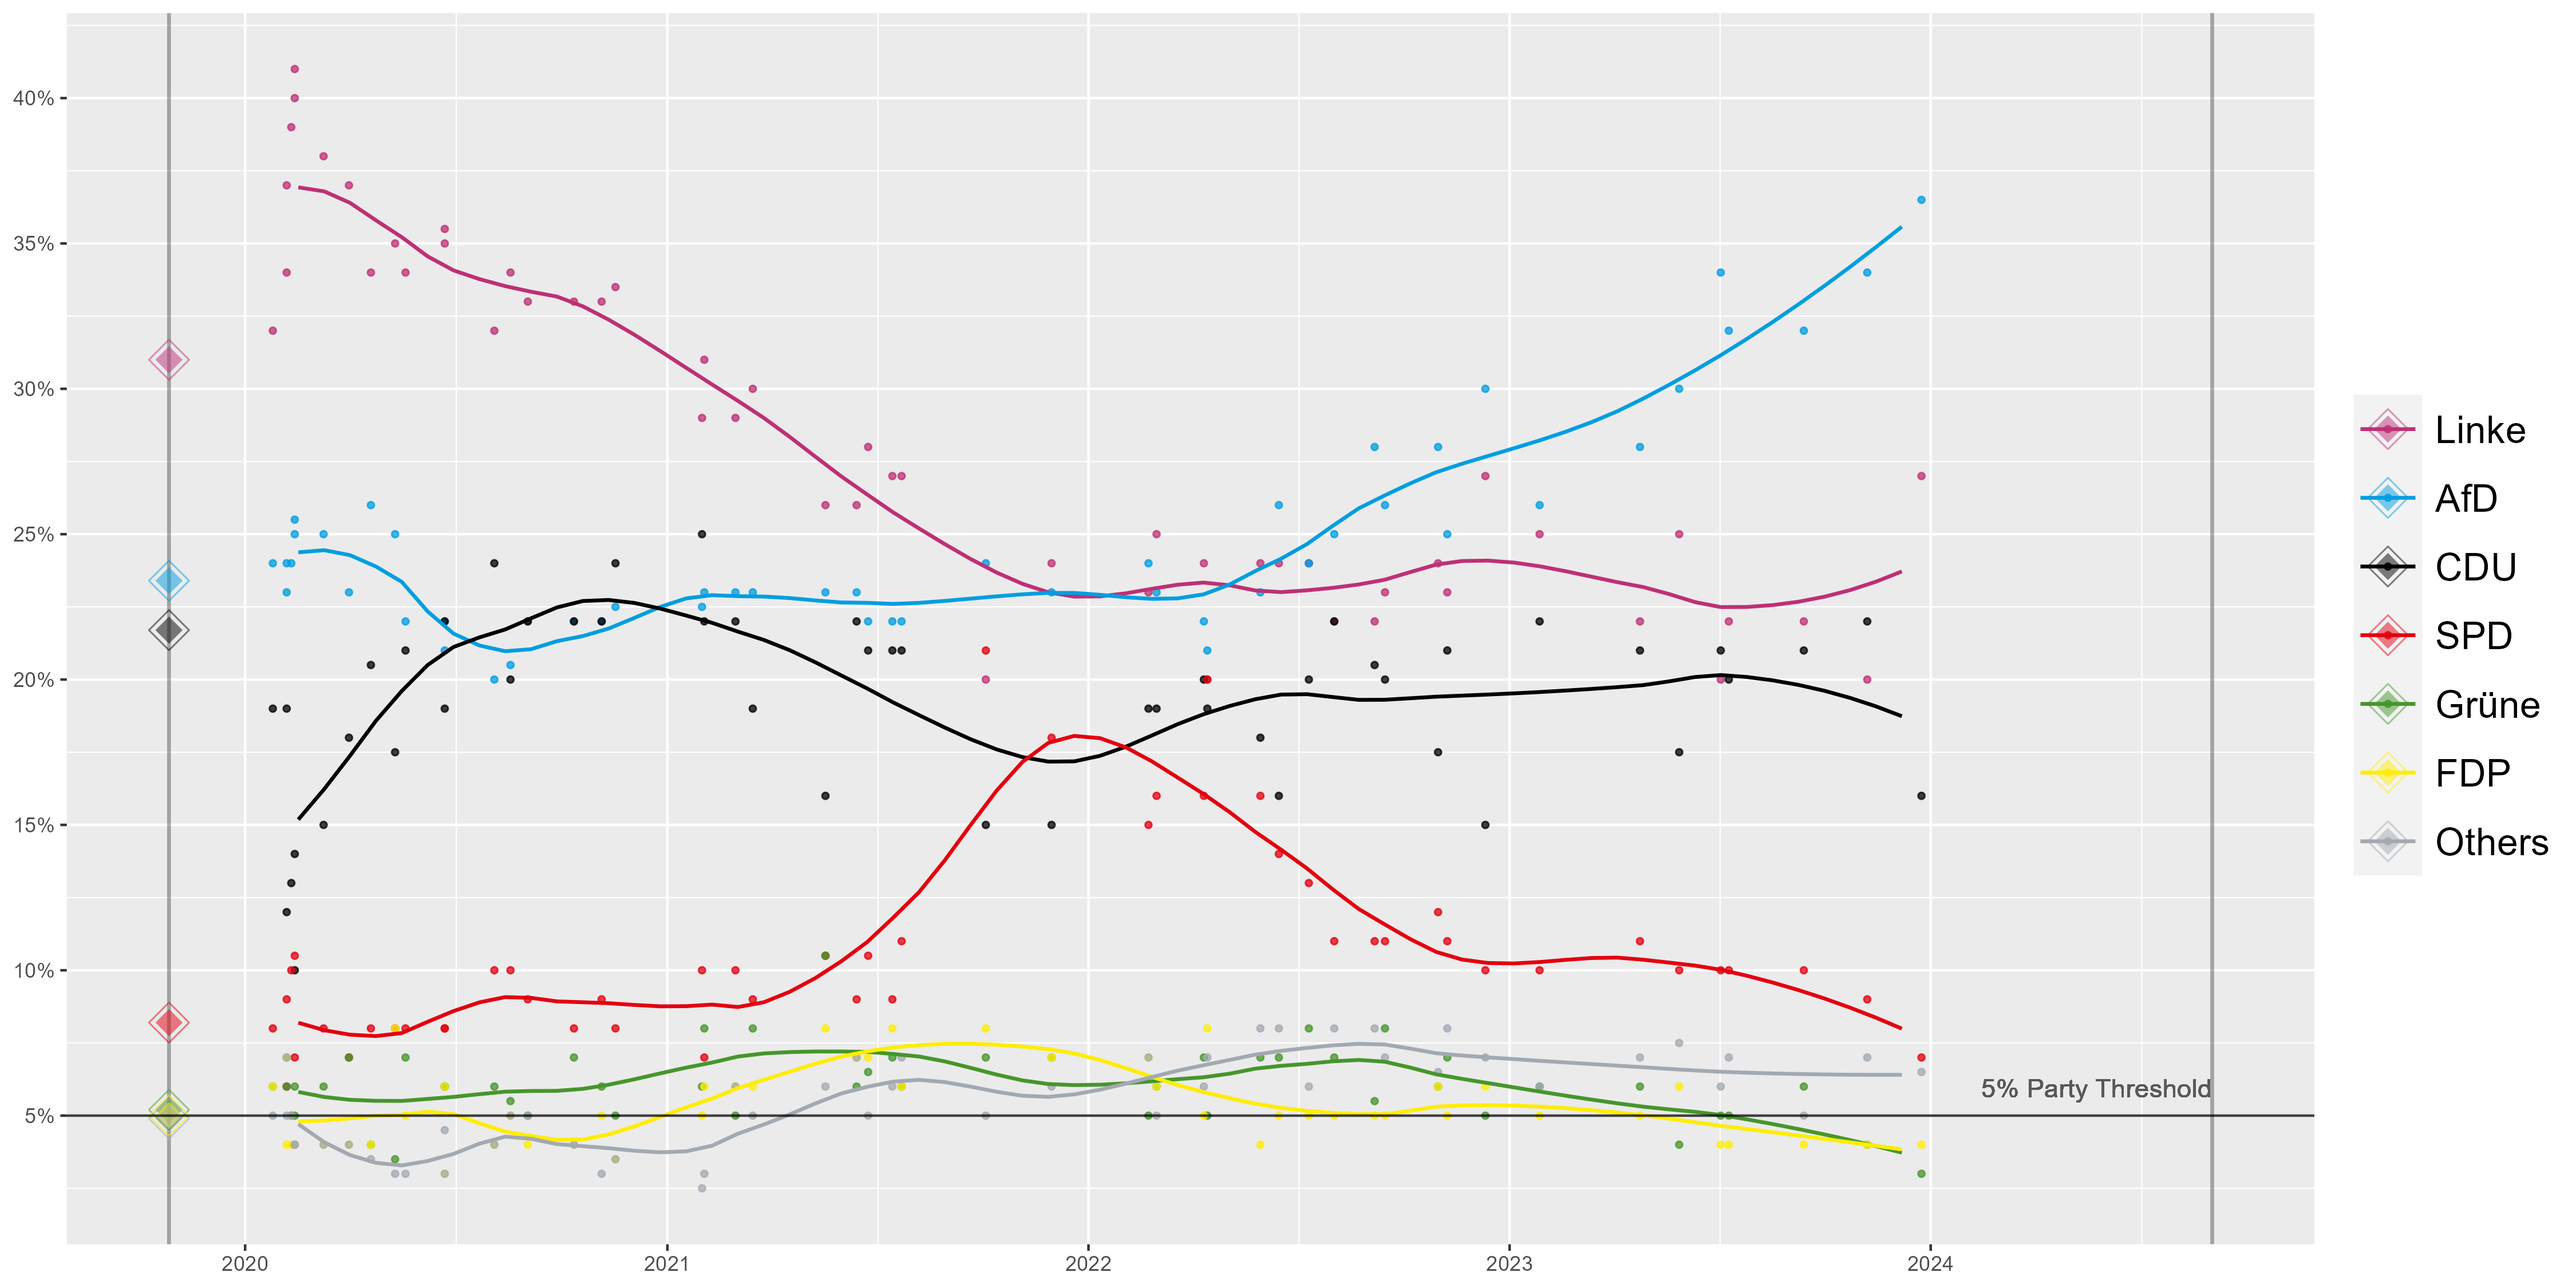
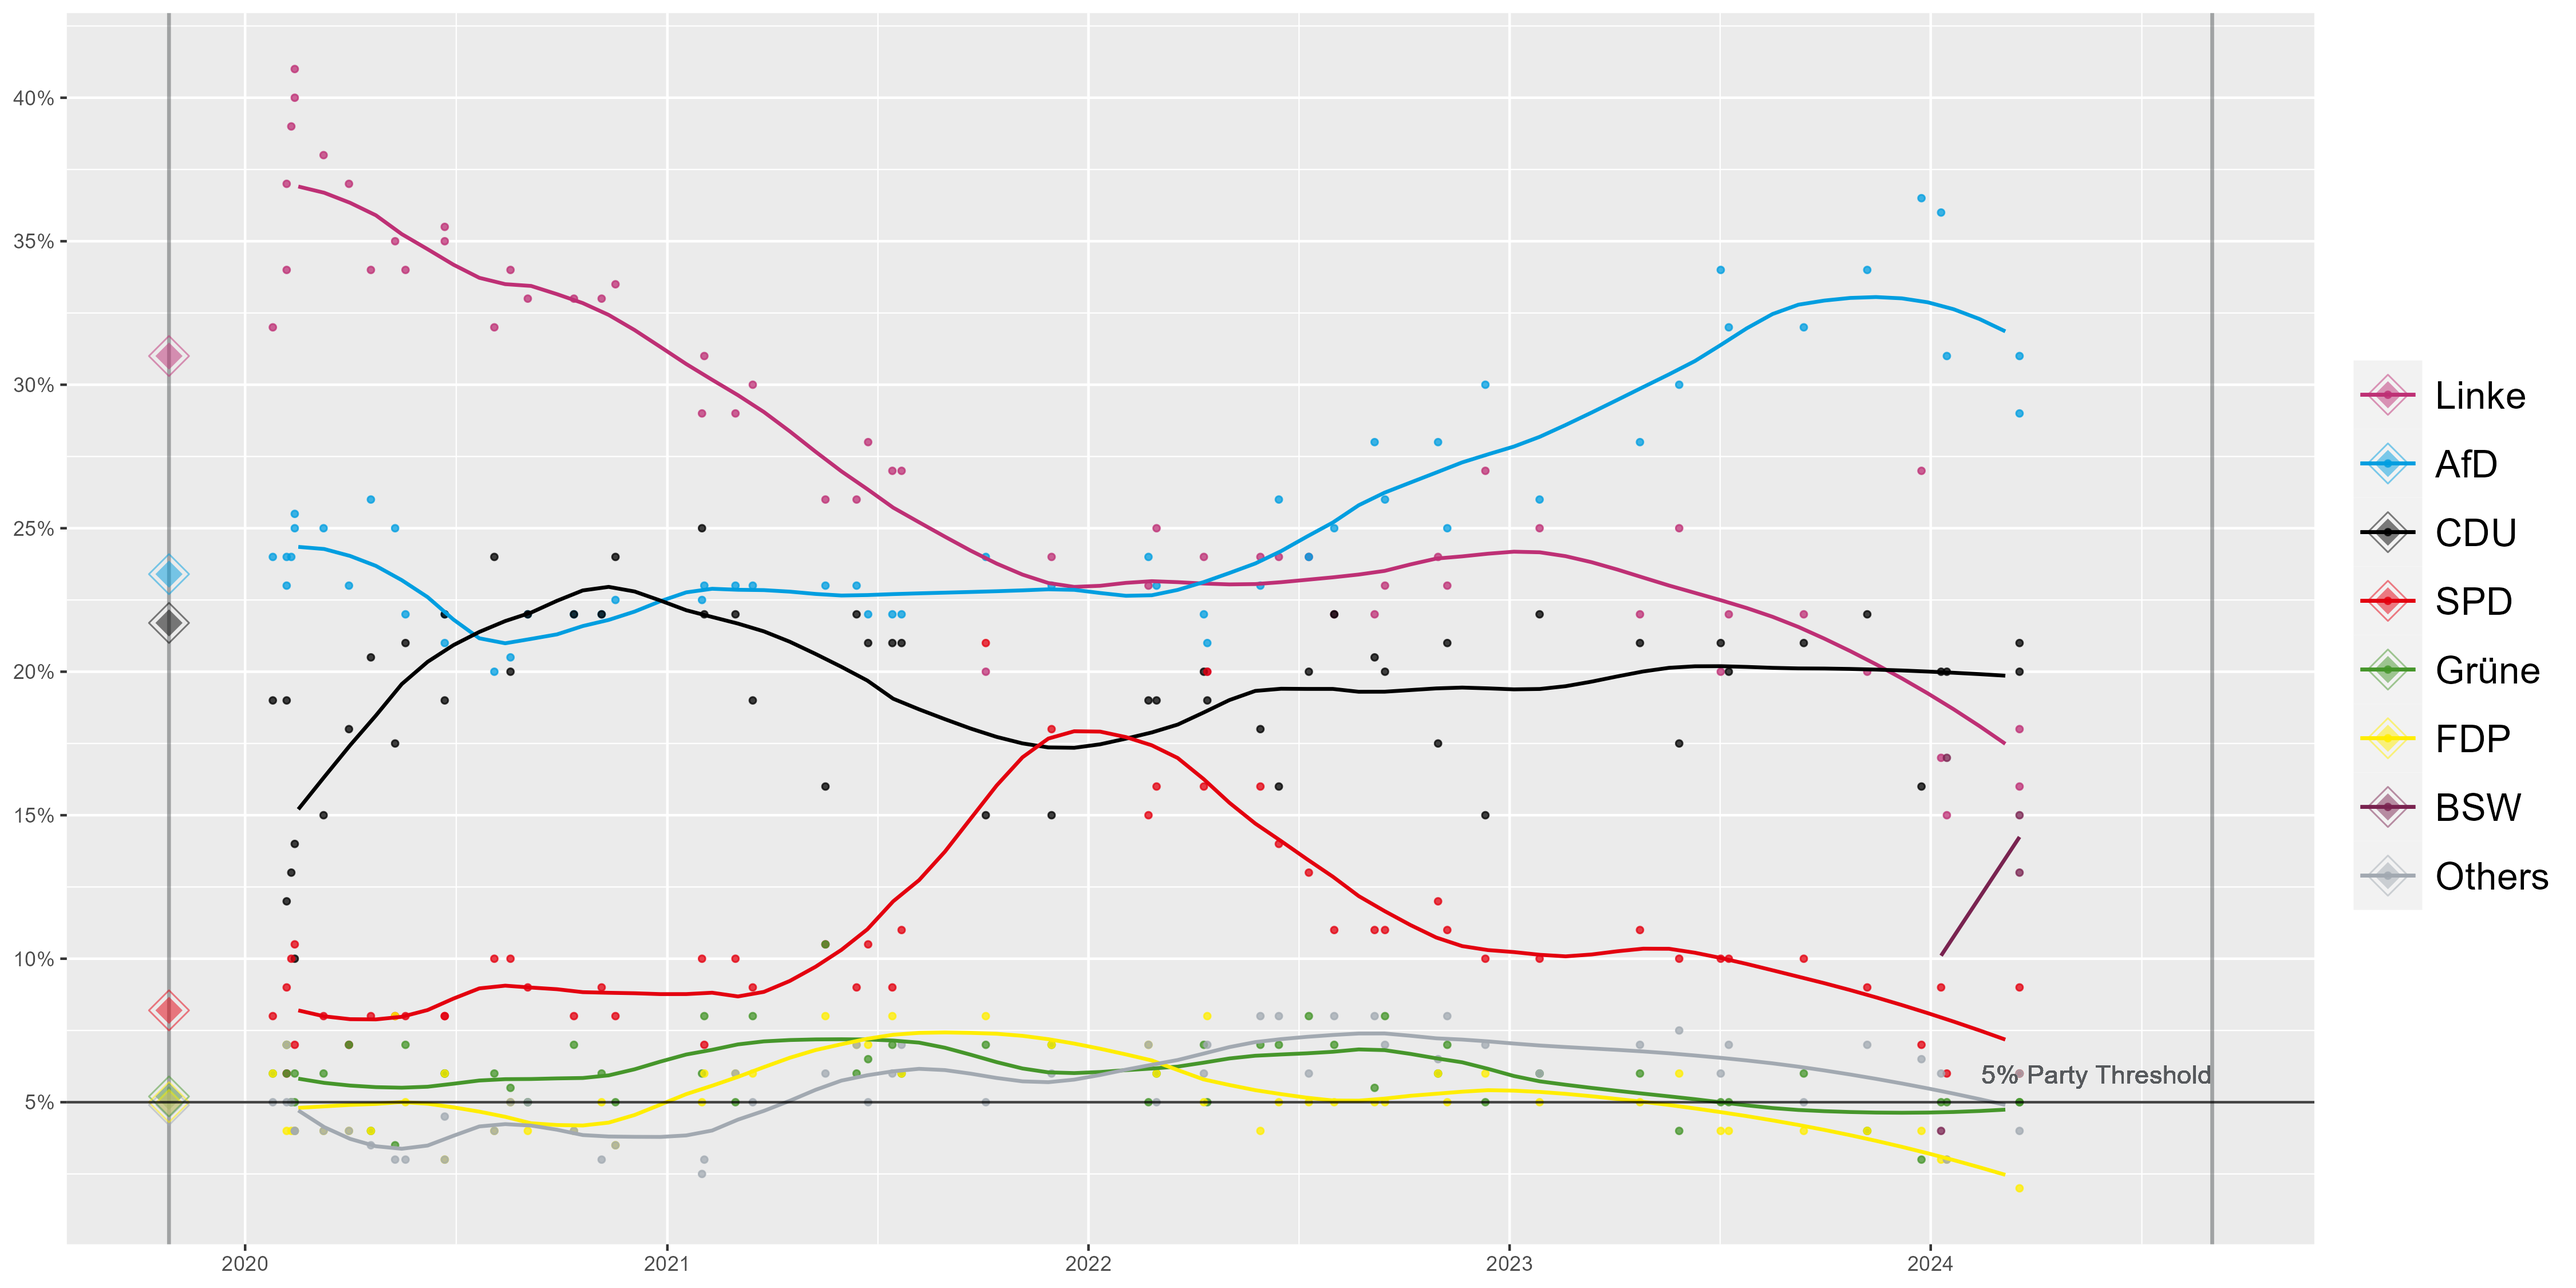
Thuringia Updated

diff --git a/German/State/Thuringia/data.py b/German/State/Thuringia/data.py
@@ -4,7 +4,7 @@ from bs4 import BeautifulSoup # library to parse HTML documents
 import numpy as np
 import dateparser
 
-wikiurl="https://en.wikipedia.org/wiki/Next_Thuringian_state_election"
+wikiurl="https://en.wikipedia.org/wiki/2024_Thuringian_state_election"
 table_class="wikitable sortable jquery-tablesorter"
 response=requests.get(wikiurl)
 print(response.status_code)
@@ -26,8 +26,8 @@ for z in parties:
 data22=data22[~data22.Others.str.contains(".mw-parser-output")]
 data22[parties] = data22[parties].astype(float)
 
-data22=data22.drop(data22[data22['BSW'] > 0].index)
-data22=data22.drop('BSW', axis=1)
+data22=data22.drop(data22[data22['BSW'] > 20].index)
+# data22=data22.drop('BSW', axis=1)
 
 
 print(data22)
